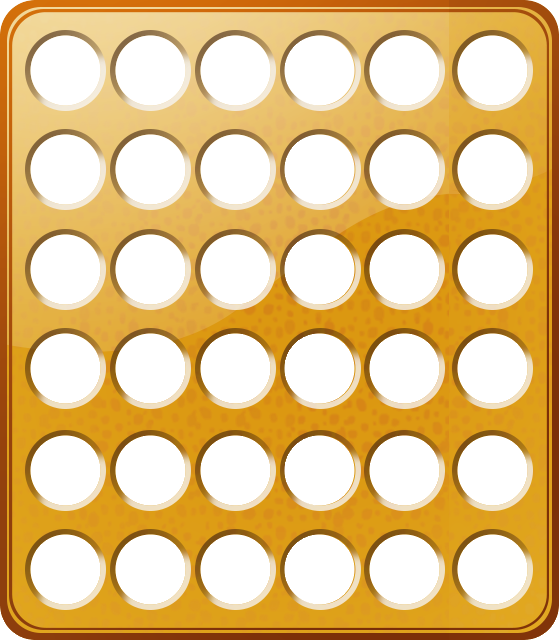
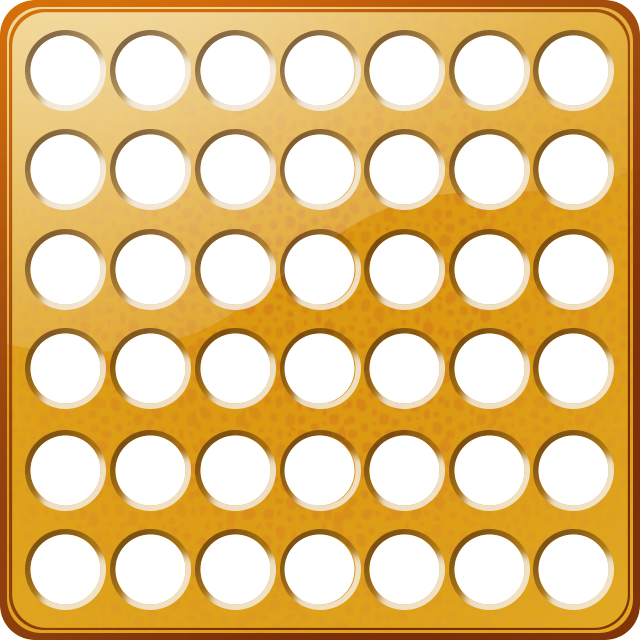
Update: 4 in a row 6x7

diff --git a/controller/stateController.js b/controller/stateController.js
@@ -4,12 +4,12 @@ class StateController {
     constructor() {
 
         this.boardMatrix = [
-            [2, 2, 2, 2, 2, 2],
-            [2, 2, 2, 2, 2, 2],
-            [2, 2, 2, 2, 2, 2],
-            [2, 2, 2, 2, 2, 2],
-            [2, 2, 2, 2, 2, 2],
-            [2, 2, 2, 2, 2, 2]
+            [2, 2, 2, 2, 2, 2, 2],
+            [2, 2, 2, 2, 2, 2, 2],
+            [2, 2, 2, 2, 2, 2, 2],
+            [2, 2, 2, 2, 2, 2, 2],
+            [2, 2, 2, 2, 2, 2, 2],
+            [2, 2, 2, 2, 2, 2, 2]
         ];
 
         //when the game starts, father start as null

diff --git a/main.js b/main.js
@@ -3,7 +3,7 @@ $(document).ready(function () {
     emptyButton = "img/empty.png";
     aiButton = "img/red.png";
     humanButton = "img/blue.png";
-    boardWidth = "6";
+    boardWidth = "7";
     boardHeight = "6";
     ai = "-1";
     human = "1";

diff --git a/index.php b/index.php
@@ -18,125 +18,143 @@ include(HEADER_TEMPLATE);
             <img src="img/ai.png">
         </div>
         <div class="col-7">
-            <div id="board" class="pt-5 pl-4">
-                <div class="row pt-3 ml-4">
+            <div id="board" class="pt-5">
+                <div class="row pt-3 ml-2">
                     <div class="pl-3">
-                        <img  id="img00" onclick="makeAMove('0')"/>
+                        <img id="img00" onclick="makeAMove('0')" />
                     </div>
                     <div class="pl-2">
-                        <img  id="img01" onclick="makeAMove('1')"/>
+                        <img id="img01" onclick="makeAMove('1')" />
                     </div>
                     <div class="pl-2">
-                        <img  id="img02" onclick="makeAMove('2')"/>
+                        <img id="img02" onclick="makeAMove('2')" />
                     </div>
                     <div class="pl-1">
-                        <img  id="img03" onclick="makeAMove('3')"/>
+                        <img id="img03" onclick="makeAMove('3')" />
                     </div>
                     <div class="pl-1">
-                        <img  id="img04" onclick="makeAMove('4')"/>
+                        <img id="img04" onclick="makeAMove('4')" />
                     </div>
                     <div class="pl-2">
-                        <img  id="img05" onclick="makeAMove('5')"/>
+                        <img id="img05" onclick="makeAMove('5')" />
+                    </div>
+                    <div class="pl-1">
+                        <img id="img06" onclick="makeAMove('6')" />
                     </div>
                 </div>
-                <div class="row pt-3 ml-4">
+                <div class="row pt-3 ml-2">
                     <div class="pl-3 pt-1">
-                        <img  id="img10" onclick="makeAMove('0')"/>
+                        <img id="img10" onclick="makeAMove('0')" />
                     </div>
                     <div class="pt-1 pl-2">
-                        <img  id="img11" onclick="makeAMove('1')"/>
+                        <img id="img11" onclick="makeAMove('1')" />
                     </div>
                     <div class="pt-1 pl-2">
-                        <img  id="img12" onclick="makeAMove('2')"/>
+                        <img id="img12" onclick="makeAMove('2')" />
                     </div>
                     <div class="pt-1 pl-1">
-                        <img  id="img13" onclick="makeAMove('3')"/>
+                        <img id="img13" onclick="makeAMove('3')" />
                     </div>
                     <div class="pt-1 pl-1">
-                        <img  id="img14" onclick="makeAMove('4')"/>
+                        <img id="img14" onclick="makeAMove('4')" />
                     </div>
                     <div class="pt-1 pl-2">
-                        <img  id="img15" onclick="makeAMove('5')"/>
+                        <img id="img15" onclick="makeAMove('5')" />
+                    </div>
+                    <div class="pt-1 pl-1">
+                        <img id="img16" onclick="makeAMove('6')" />
                     </div>
                 </div>
-                <div class="row pt-3 ml-4">
+                <div class="row pt-3 ml-2">
                     <div class="pl-3 pt-1">
-                        <img  id="img20" onclick="makeAMove('0')"/>
+                        <img id="img20" onclick="makeAMove('0')" />
                     </div>
                     <div class="pt-1 pl-2">
-                        <img  id="img21" onclick="makeAMove('1')"/>
+                        <img id="img21" onclick="makeAMove('1')" />
                     </div>
                     <div class="pt-1 pl-2">
-                        <img  id="img22" onclick="makeAMove('2')"/>
+                        <img id="img22" onclick="makeAMove('2')" />
                     </div>
                     <div class="pt-1 pl-1">
-                        <img  id="img23" onclick="makeAMove('3')"/>
+                        <img id="img23" onclick="makeAMove('3')" />
                     </div>
                     <div class="pt-1 pl-1">
-                        <img  id="img24" onclick="makeAMove('4')"/>
+                        <img id="img24" onclick="makeAMove('4')" />
                     </div>
                     <div class="pt-1 pl-2">
-                        <img  id="img25" onclick="makeAMove('5')"/>
+                        <img id="img25" onclick="makeAMove('5')" />
+                    </div>
+                    <div class="pt-1 pl-1">
+                        <img id="img26" onclick="makeAMove('6')" />
                     </div>
                 </div>
-                <div class="row pt-3 ml-4">
+                <div class="row pt-3 ml-2">
                     <div class="pl-3 pt-1">
-                        <img  id="img30" onclick="makeAMove('0')"/>
+                        <img id="img30" onclick="makeAMove('0')" />
                     </div>
                     <div class="pt-1 pl-2">
-                        <img  id="img31" onclick="makeAMove('1')"/>
+                        <img id="img31" onclick="makeAMove('1')" />
                     </div>
                     <div class="pt-1 pl-2">
-                        <img  id="img32" onclick="makeAMove('2')"/>
+                        <img id="img32" onclick="makeAMove('2')" />
                     </div>
                     <div class="pt-1 pl-1">
-                        <img  id="img33" onclick="makeAMove('3')"/>
+                        <img id="img33" onclick="makeAMove('3')" />
                     </div>
                     <div class="pt-1 pl-1">
-                        <img  id="img34" onclick="makeAMove('4')"/>
+                        <img id="img34" onclick="makeAMove('4')" />
                     </div>
                     <div class="pt-1 pl-2">
-                        <img  id="img35" onclick="makeAMove('5')"/>
+                        <img id="img35" onclick="makeAMove('5')" />
+                    </div>
+                    <div class="pt-1 pl-1">
+                        <img id="img36" onclick="makeAMove('6')" />
                     </div>
                 </div>
-                <div class="row pt-3 ml-4">
+                <div class="row pt-3 ml-2">
                     <div class="pl-3 pt-2">
-                        <img  id="img40" onclick="makeAMove('0')"/>
+                        <img id="img40" onclick="makeAMove('0')" />
                     </div>
                     <div class="pt-2 pl-2">
-                        <img  id="img41" onclick="makeAMove('1')"/>
+                        <img id="img41" onclick="makeAMove('1')" />
                     </div>
                     <div class="pt-2 pl-2">
-                        <img  id="img42" onclick="makeAMove('2')"/>
+                        <img id="img42" onclick="makeAMove('2')" />
                     </div>
                     <div class="pt-2 pl-1">
-                        <img  id="img43" onclick="makeAMove('3')"/>
+                        <img id="img43" onclick="makeAMove('3')" />
                     </div>
                     <div class="pt-2 pl-1">
-                        <img  id="img44" onclick="makeAMove('4')"/>
+                        <img id="img44" onclick="makeAMove('4')" />
                     </div>
                     <div class="pt-2 pl-2">
-                        <img  id="img45" onclick="makeAMove('5')"/>
+                        <img id="img45" onclick="makeAMove('5')" />
+                    </div>
+                    <div class="pt-2 pl-1">
+                        <img id="img46" onclick="makeAMove('6')" />
                     </div>
                 </div>
-                <div class="row pt-3 ml-4">
+                <div class="row pt-3 ml-2">
                     <div class="pl-3 pt-1">
-                        <img  id="img50" onclick="makeAMove('0')"/>
+                        <img id="img50" onclick="makeAMove('0')" />
                     </div>
                     <div class="pt-1 pl-2">
-                        <img  id="img51" onclick="makeAMove('1')"/>
+                        <img id="img51" onclick="makeAMove('1')" />
                     </div>
                     <div class="pt-1 pl-2">
-                        <img  id="img52" onclick="makeAMove('2')"/>
+                        <img id="img52" onclick="makeAMove('2')" />
                     </div>
                     <div class="pt-1 pl-1">
-                        <img  id="img53" onclick="makeAMove('3')"/>
+                        <img id="img53" onclick="makeAMove('3')" />
                     </div>
                     <div class="pt-1 pl-1">
-                        <img  id="img54" onclick="makeAMove('4')"/>
+                        <img id="img54" onclick="makeAMove('4')" />
                     </div>
                     <div class="pt-1 pl-2">
-                        <img  id="img55" onclick="makeAMove('5')"/>
+                        <img id="img55" onclick="makeAMove('5')" />
+                    </div>
+                    <div class="pt-1 pl-1">
+                        <img id="img56" onclick="makeAMove('6')" />
                     </div>
                 </div>
                 <br> <br> <br>
